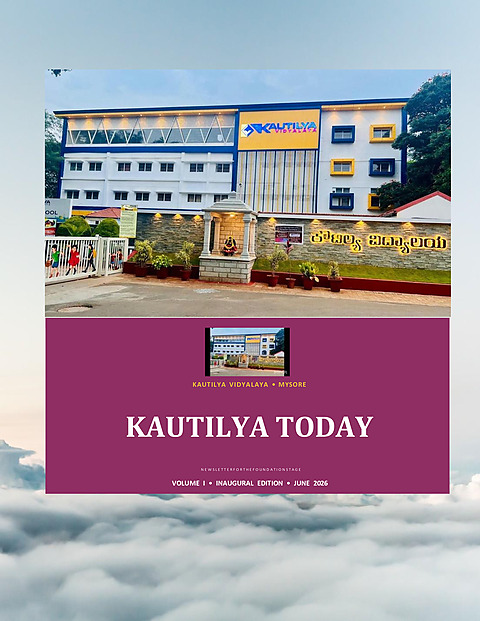
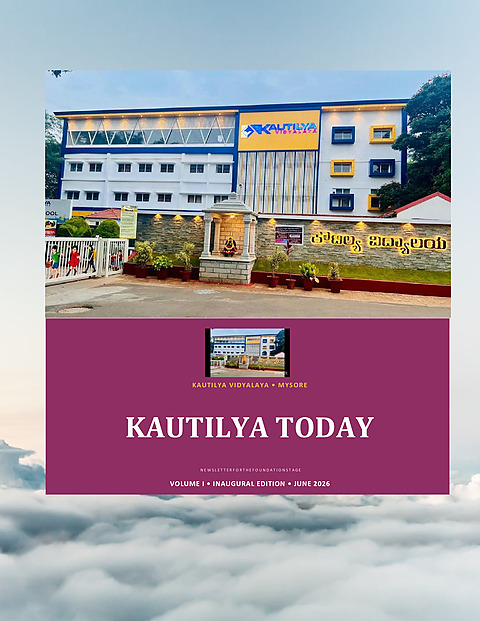
fix(newsletter): update June and July Kindergarten flipbook links and covers

diff --git a/src/components/student-corner/MonthlyNewsletterClientView.tsx b/src/components/student-corner/MonthlyNewsletterClientView.tsx
@@ -49,8 +49,7 @@ const KINDERGARTEN_EDITIONS: NewsletterEdition[] = [
     gradeBadge: "Pre-KG • LKG • UKG",
     volume: "KG Edition • Issue 01",
     coverImage: "/images/student-corner/kautilya-kg-newsletter-cover-june-2026.jpg",
-    flipbookUrl:
-      "https://www.pdf-flip.com/viewers/161252/7gf8yn.html?color3DCover=%23d8d3b3&pfPageMedia=1&pfEditor=1&v=1790315468233&page=24#pf_4e049eaeaa00/24/",
+    flipbookUrl: "https://www.pdf-flip.com/viewers/203918/4zf4ln.html",
     fileSize: "Interactive 3D",
     highlights: [
       "Welcome Week & Fun Sensory Activities",
@@ -70,8 +69,7 @@ const KINDERGARTEN_EDITIONS: NewsletterEdition[] = [
     gradeBadge: "Pre-KG • LKG • UKG",
     volume: "KG Edition • Issue 02",
     coverImage: "/images/student-corner/kautilya-kg-newsletter-cover-july-2026.jpg",
-    flipbookUrl:
-      "https://www.pdf-flip.com/viewers/161252/ji8gt2.html?color3DCover=%23d8d3b3&pfPageMedia=1&pfEditor=1&v=1790315396720&page=6#pf_4ba92dfddc18/6/",
+    flipbookUrl: "https://www.pdf-flip.com/viewers/203918/xonu9p.html",
     fileSize: "Interactive 3D",
     highlights: [
       "Monsoon Magic & Nature Craft Activities",
